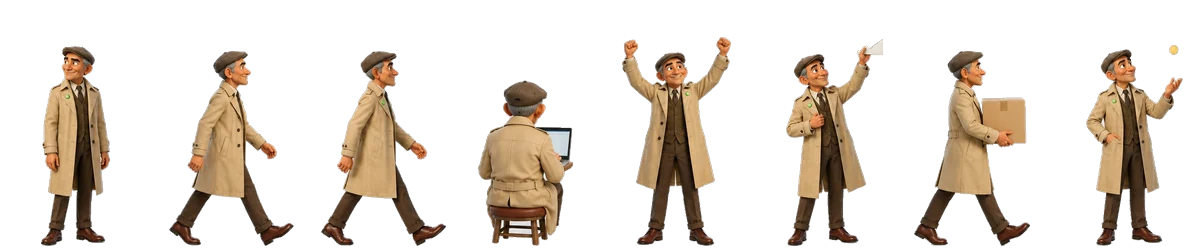
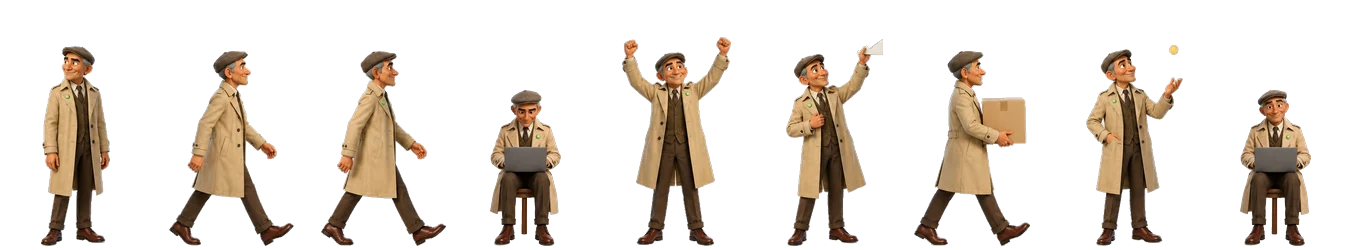
Workroom: everyone seated facing out at two tiered desks
The desk floor is redrawn as a raised back desk of eight and a front desk
of six, all facing the viewer, with each desk front lifted into its own
layer so the row behind it is hidden from the waist down. Each agent gets
two new seated frames (typing, looking up), people walk along behind their
desk and leave past its right end, and winners stay seated to receive
their pay.

diff --git a/web/src/Workroom.tsx b/web/src/Workroom.tsx
@@ -25,23 +25,32 @@ const name = (id?: string) => (id ? NAMES[id] ?? id.replace(/^outside:/, '') : '
 
 // The stage picture is 1115 x 1102; everything below is in its pixels.
 const W = 1115, H = 1102;
-const FLOOR = [430, 733, 1040]; // the line the feet walk on: hall, desks, street
+const FLOOR = [430, 740, 1040]; // the line the feet walk on: hall, desks, street
 const STAIR = 992;              // the stairwell on the right joins all three floors
 const SPEED = 250;              // walking speed, px per second, the same for every walk
 const STRIDE = 44;              // px walked per step
-const SEAT = 702;               // where a seated agent's sprite stands, behind the chair back
 const BOARD = 557;              // the middle of the auction board; people in the hall turn to it
 const COUNTER = { x: 440, y: 996, past: 652 }; // behind the counter, and the gap at its right end
 const HALL = [470, 640, 390, 720, 310, 800, 230, 880];
-// Nine chairs; the rest of the team works standing.
-const CHAIRS = [190, 267, 350, 430, 507, 585, 662, 772, 855];
-const SITS = ['scout', 'researcher', 'researcher-2', 'reader', 'writer', 'writer-2', 'analyst', 'illustrator', 'illustrator-2'];
-const STANDS: Record<string, { x: number; floor: number }> = {
-  auditor: { x: 70, floor: 1 }, 'auditor-2': { x: 124, floor: 1 }, messenger: { x: 922, floor: 1 },
-  producer: { x: 252, floor: 2 }, investigator: { x: 818, floor: 2 },
+// The whole team sits facing out behind two long desks, a raised back row of eight and a front row of six. Each
+// desk front is its own layer (design/scripts/desks.py), drawn over the row seated behind it. People walk along
+// behind their desk at `walk`, step out past its right end at `exit`, and a seated sprite stands at `sit` so the
+// laptop on its knees rests on the desk top.
+type Row = 'back' | 'front';
+const ROWS: Record<Row, { walk: number; sit: number; top: number; exit: number; z: number }> = {
+  back: { walk: 694, sit: 682, top: 630, exit: 932, z: 1 },
+  front: { walk: 722, sit: 710, top: 658, exit: 872, z: 3 },
 };
-// Frames in each strip (web/public/agents/poses/<name>.webp, made by design/scripts/poses.py), all facing right.
-const FRAMES = ['idle', 'walkA', 'walkB', 'type', 'cheer', 'bid', 'box', 'coin'] as const;
+const SEATS: Record<string, { row: Row; x: number }> = {
+  'researcher-2': { row: 'back', x: 286 }, reader: { row: 'back', x: 376 }, 'writer-2': { row: 'back', x: 457 },
+  'illustrator-2': { row: 'back', x: 539 }, producer: { row: 'back', x: 617 }, investigator: { row: 'back', x: 685 },
+  auditor: { row: 'back', x: 758 }, 'auditor-2': { row: 'back', x: 834 },
+  scout: { row: 'front', x: 246 }, researcher: { row: 'front', x: 343 }, writer: { row: 'front', x: 440 },
+  illustrator: { row: 'front', x: 547 }, analyst: { row: 'front', x: 643 }, messenger: { row: 'front', x: 745 },
+};
+// Frames in each strip (web/public/agents/poses/<name>.webp, made by design/scripts/poses.py), all facing right;
+// 'type' and 'look' are seated, facing out.
+const FRAMES = ['idle', 'walkA', 'walkB', 'type', 'cheer', 'bid', 'box', 'coin', 'look'] as const;
 type Pose = 'idle' | 'bid' | 'cheer' | 'box' | 'coin';
 const cq = (px: number) => `${(px / W) * 100}cqw`;
 
@@ -71,8 +80,8 @@ function beatsOf(o: Order, lots: LiveLot[], steps: Step[]): Beat[] {
   return out;
 }
 
-// 'desk' is an agent's own chair or standing spot; 'up' is standing in front of it.
-type Place = 'desk' | 'up' | 'street' | { hall: number };
+// 'desk' is an agent's own chair.
+type Place = 'desk' | 'street' | { hall: number };
 type Scene = {
   place: Record<string, Place>;
   pose: Record<string, Pose>;
@@ -161,7 +170,7 @@ function fold(beats: Beat[]): Scene {
       case 'accept':
         s.end = 'accepted';
         delete s.pose.messenger;
-        for (const a of Object.keys(s.won)) if (s.won[a] > 0 && a !== 'messenger') { s.place[a] = 'up'; s.pose[a] = 'coin'; }
+        for (const a of Object.keys(s.won)) if (s.won[a] > 0 && a !== 'messenger') { s.place[a] = 'desk'; s.pose[a] = 'coin'; }
         s.caption = 'Accepted. The bank pays each winner from escrow, straight to their NEAR account.';
         break;
       case 'reject':
@@ -181,20 +190,25 @@ function fold(beats: Beat[]): Scene {
 }
 
 type Pt = { x: number; y: number; floor: number };
-type Goal = Pt & { sit?: boolean };
+type Goal = Pt & { sit?: boolean; row?: Row };
+/** The desk row someone is walking or sitting behind, if any. */
+const rowAt = (p: Pt) => (p.floor === 1 ? (['back', 'front'] as Row[]).find((r) => Math.abs(p.y - ROWS[r].walk) < 1) : undefined);
 
 function goalOf(id: string, p: Place): Goal {
   if (p === 'street') return { x: COUNTER.x, y: COUNTER.y, floor: 2 };
   if (typeof p === 'object') return { x: HALL[p.hall], y: FLOOR[0], floor: 0 };
-  const c = SITS.indexOf(id);
-  if (c >= 0) return { x: CHAIRS[c], y: FLOOR[1], floor: 1, sit: p === 'desk' };
-  const st = STANDS[id] ?? { x: 60, floor: 1 };
-  return { x: st.x, y: FLOOR[st.floor], floor: st.floor };
+  const seat = SEATS[id] ?? { row: 'front', x: 860 };
+  return { x: seat.x, y: ROWS[seat.row].walk, floor: 1, sit: true, row: seat.row };
 }
 
-/** The way from one spot to another: along the floor to the stairwell, up or down it, along to the goal. */
-function route(from: Pt, to: Goal): Pt[] {
+/** The way from one spot to another: out from behind a desk, along the floor to the stairwell, up or down it,
+ * along to the goal and in behind its desk. */
+function route(at: Pt, to: Goal): Pt[] {
   const out: Pt[] = [];
+  const fromRow = rowAt(at);
+  if (fromRow && fromRow === to.row) return [to];
+  if (fromRow) out.push({ x: ROWS[fromRow].exit, y: at.y, floor: 1 }, { x: ROWS[fromRow].exit, y: FLOOR[1], floor: 1 });
+  const from = out[out.length - 1] ?? at;
   const behindCounter = (p: Pt) => p.floor === 2 && p.y < FLOOR[2] - 10;
   if (behindCounter(from) && !behindCounter(to)) out.push({ x: COUNTER.past, y: FLOOR[2], floor: 2 });
   if (from.floor !== to.floor) {
@@ -203,11 +217,12 @@ function route(from: Pt, to: Goal): Pt[] {
     for (let f = from.floor + d; ; f += d) { out.push({ x: STAIR, y: FLOOR[f], floor: f }); if (f === to.floor) break; }
   }
   if (behindCounter(to) && !behindCounter(from)) out.push({ x: COUNTER.past, y: FLOOR[2], floor: 2 });
+  if (to.row) out.push({ x: ROWS[to.row].exit, y: FLOOR[1], floor: 1 }, { x: ROWS[to.row].exit, y: to.y, floor: 1 });
   out.push(to);
   return out;
 }
 
-type Body = Pt & { id: string; path: Pt[]; goal: Goal; face: 1 | -1; walked: number; seated: boolean; moving: boolean; pose?: Pose; busy: boolean; el?: HTMLDivElement | null; spr?: HTMLDivElement | null };
+type Body = Pt & { id: string; path: Pt[]; goal: Goal; face: 1 | -1; walked: number; seated: boolean; moving: boolean; pose?: Pose; busy: boolean; el?: HTMLDivElement | null; spr?: HTMLDivElement | null; lab?: HTMLElement | null };
 
 /** Everyone's position, moved every frame at one walking speed; React only says where each one should be. */
 class Crowd {
@@ -223,7 +238,7 @@ class Crowd {
     for (const id of ROSTER) {
       const g = goalOf(id, 'desk');
       const old = this.bodies.get(id);
-      this.bodies.set(id, { ...g, id, path: [], goal: g, face: g.x > BOARD ? -1 : 1, walked: 0, seated: !!g.sit, moving: false, busy: false, el: old?.el, spr: old?.spr });
+      this.bodies.set(id, { ...g, id, path: [], goal: g, face: g.x > BOARD ? -1 : 1, walked: 0, seated: !!g.sit, moving: false, busy: false, el: old?.el, spr: old?.spr, lab: old?.lab });
     }
   }
 
@@ -290,39 +305,49 @@ class Crowd {
       frame = b.pose === 'box' ? 'box' : Math.floor(phase) % 2 ? 'walkB' : 'walkA';
       lift = Math.abs(Math.sin(phase * Math.PI)) * 3.2;
     } else if (b.seated) {
-      frame = 'type';
-      if (b.busy) lift = Math.sin(t / 55) > 0 ? 1.2 : 0;
+      // At work: head down typing, looking up now and then; while talking, mostly looking out.
+      // Someone being paid looks up at the coin.
+      const glance = b.pose === 'coin' || Math.sin(t / (b.busy ? 600 : 2300) + b.goal.x) > (b.busy ? -0.3 : 0.8);
+      frame = glance ? 'look' : 'type';
+      if (frame === 'type') lift = Math.sin(t / 55) > 0 ? 0.9 : 0;
     } else {
       frame = b.pose ?? 'idle';
       if (frame === 'cheer') lift = Math.abs(Math.sin(t / 160)) * 6;
       else lift = Math.sin(t / 700 + b.goal.x) * 0.6; // breathing
     }
-    const y = b.seated && !moving ? SEAT : b.y;
+    const row = rowAt(b);
+    const sitting = b.seated && !moving && !!row;
+    const y = sitting ? ROWS[row!].sit : b.y;
     const behind = b.floor === 2 && b.y < FLOOR[2] - 10;
     b.el.style.left = `${(b.x / W) * 100}%`;
     b.el.style.top = `${(y / H) * 100}%`;
-    b.el.style.zIndex = b.seated && !moving ? '1' : behind ? '3' : '5';
-    b.el.classList.toggle('sit', b.seated && !moving);
+    b.el.style.zIndex = row ? String(ROWS[row].z) : behind ? '3' : '5';
+    b.el.classList.toggle('sit', sitting);
+    if (b.lab) {
+      // the name sits on the desk front while someone is behind it, under the feet otherwise
+      b.lab.style.left = b.el.style.left;
+      b.lab.style.top = `${((row ? ROWS[row].top + 5 : b.y + 6) / H) * 100}%`;
+    }
     b.el.classList.toggle('hall', b.floor === 0 && b.y < FLOOR[0] + 5);
     b.el.classList.toggle('l', b.x < W * 0.2);
     b.el.classList.toggle('r', b.x > W * 0.78);
     b.spr.style.backgroundPositionX = `${(FRAMES.indexOf(frame) / (FRAMES.length - 1)) * 100}%`;
-    const flip = frame !== 'type' && frame !== 'cheer' && b.face < 0 ? -1 : 1;
+    const flip = frame !== 'type' && frame !== 'look' && frame !== 'cheer' && b.face < 0 ? -1 : 1;
     b.spr.style.transform = `translateY(${cq(-lift)}) scaleX(${flip})`;
   }
 }
 
 function Figure({ id, crowd, tag, glow, bubble }: { id: string; crowd: Crowd; tag?: string; glow: boolean; bubble?: Scene['bubble'] }) {
   const n = NAMES[id];
-  const hold = (el: HTMLDivElement | null, k: 'el' | 'spr') => { const b = crowd.bodies.get(id); if (b) b[k] = el; };
-  return (
+  const hold = (el: HTMLDivElement | null, k: 'el' | 'spr' | 'lab') => { const b = crowd.bodies.get(id); if (b) b[k] = el; };
+  return (<>
     <div className={`wr-fig${glow ? ' glow' : ''}`} ref={(el) => hold(el, 'el')}>
       {bubble && <div className={`wr-bub ${bubble.kind}`} key={bubble.key}><b>{n}</b> {bubble.text.length > 90 ? `${bubble.text.slice(0, 88)}…` : bubble.text}</div>}
       {!bubble && tag && tag !== 'sealed' && <span className={`wr-tag${tag.startsWith('won') || tag.startsWith('passed') ? ' won' : tag.startsWith('failed') ? ' bad' : ''}`}>{tag}</span>}
       <div className="wr-spr" ref={(el) => hold(el, 'spr')} style={{ backgroundImage: `url(/agents/poses/${n.toLowerCase()}.webp)` }} role="img" aria-label={n} />
-      <small>{n}</small>
     </div>
-  );
+    <small className="wr-name" ref={(el) => hold(el as HTMLDivElement | null, 'lab')}>{n}</small>
+  </>);
 }
 
 /** A payout flying from the counter to its winner, along an arc. */
@@ -402,13 +427,14 @@ export function Workroom({ o, lots, steps, live }: { o: Order; lots: LiveLot[]; 
         {scene.pills.length > 0 && (
           <div className="wr-pills">{scene.pills.slice(-3).map((p) => <span key={p.handle} className={p.entered ? '' : 'out'}>{p.handle} · {usd(p.price)}</span>)}</div>
         )}
-        <img className="wr-chairs" src="/stage-chairs.webp" alt="" />
+        <img className="wr-desk back" src="/stage-desk-back.webp" alt="" />
+        <img className="wr-desk front" src="/stage-desk-front.webp" alt="" />
         {ROSTER.map((id) => (
           <Figure key={id} id={id} crowd={crowd} tag={scene.tag[id]} glow={scene.glow.has(id)} bubble={scene.bubble?.who === id ? scene.bubble : undefined} />
         ))}
         <img className="wr-counter" src="/stage-counter.png" alt="" />
         {scene.place.messenger === 'street' && kitIn && !scene.end && <span className="wr-parcel">Your work, boxed</span>}
-        {coins.map(([id, pay], i) => <Coin key={`${run}-${id}`} to={goalOf(id, 'up')} pay={pay} delay={500 + i * 220} />)}
+        {coins.map(([id, pay], i) => <Coin key={`${run}-${id}`} to={goalOf(id, 'desk')} pay={pay} delay={500 + i * 220} />)}
       </div>
       <div className="wr-bar">
         <div className="wr-top">

diff --git a/web/src/styles.css b/web/src/styles.css
@@ -163,20 +163,21 @@ table.leads td b{font-size:15px}
 .wr-pills{position:absolute;left:6%;top:24%;display:flex;flex-direction:column;gap:.5cqw;z-index:3}
 .wr-pills span{background:var(--cyan-soft);color:var(--cyan-ink);border-radius:99px;padding:.35cqw 1cqw;font:600 max(9px,1.25cqw)/1.2 'Inter Tight',sans-serif;animation:pop .35s ease-out both}
 .wr-pills span.out{opacity:.55;text-decoration:line-through}
-.wr-chairs{position:absolute;left:13.453%;top:58.439%;width:66.906%;height:7.26%;z-index:2;pointer-events:none}
+.wr-desk{position:absolute;pointer-events:none}
+.wr-desk.back{left:18.117%;top:57.078%;width:63.318%;height:6.443%;z-index:2}
+.wr-desk.front{left:13.453%;top:59.619%;width:61.614%;height:7.804%;z-index:4}
 .wr-fig{position:absolute;width:0;height:0;display:flex;flex-direction:column;align-items:center;z-index:5}
-.wr-spr{position:absolute;bottom:0;width:8.4cqw;height:14cqw;background:no-repeat 0 0/800% 100%;transform-origin:50% 100%;filter:drop-shadow(0 .35cqw .35cqw rgba(0,0,0,.3));will-change:transform}
-.wr-fig.sit .wr-spr{clip-path:inset(0 0 13% 0);filter:none}
+.wr-spr{position:absolute;bottom:0;width:8.4cqw;height:14cqw;background:no-repeat 0 0/900% 100%;transform-origin:50% 100%;filter:drop-shadow(0 .35cqw .35cqw rgba(0,0,0,.3));will-change:transform}
+.wr-fig.sit .wr-spr{filter:none}
 .wr-fig.glow .wr-spr{filter:drop-shadow(0 0 .8cqw rgba(0,236,151,.85)) drop-shadow(0 .35cqw .35cqw rgba(0,0,0,.3))}
-.wr-fig small{position:absolute;top:.5cqw;font:600 max(8px,1.05cqw)/1 'Inter Tight',sans-serif;color:#fff;background:rgba(0,0,0,.55);padding:.2cqw .6cqw;border-radius:99px;white-space:nowrap;opacity:.85}
-.wr-fig.sit small{display:none}
+.wr-name{position:absolute;z-index:5;transform:translateX(-50%);pointer-events:none;font:600 max(8px,1.05cqw)/1 'Inter Tight',sans-serif;color:#fff;background:rgba(0,0,0,.55);padding:.2cqw .6cqw;border-radius:99px;white-space:nowrap;opacity:.85}
 .wr-tag{position:absolute;bottom:12.4cqw;white-space:nowrap;font:600 max(9px,1.2cqw)/1 'JetBrains Mono',monospace;background:#fff;color:var(--ink);padding:.35cqw .7cqw;border-radius:99px;animation:pop .3s ease-out both;box-shadow:var(--shadow)}
 .wr-tag.won{background:var(--green);color:#000}
 .wr-tag.bad{background:var(--red);color:#fff}
 .wr-bub{position:absolute;bottom:12.8cqw;width:max-content;max-width:26cqw;background:#fff;color:var(--ink);border-radius:1.2cqw;padding:.8cqw 1.1cqw;font:500 max(10px,1.35cqw)/1.3 'Inter Tight',sans-serif;box-shadow:var(--shadow);animation:pop .3s ease-out both;z-index:6}
 .wr-bub:after{content:"";position:absolute;left:50%;bottom:-.7cqw;border:.7cqw solid transparent;border-top-color:#fff;border-bottom:0;transform:translateX(-50%)}
 .wr-fig.l .wr-bub{left:-1cqw}.wr-fig.l .wr-bub:after{left:3cqw}.wr-fig.r .wr-bub{right:-1cqw}.wr-fig.r .wr-bub:after{left:auto;right:1.5cqw;transform:none}
-.wr-fig.sit .wr-tag{bottom:9.4cqw}.wr-fig.hall .wr-tag{display:none}.wr-fig.sit .wr-bub{bottom:9.8cqw}
+.wr-fig.sit .wr-tag{bottom:9.2cqw}.wr-fig.hall .wr-tag{display:none}.wr-fig.sit .wr-bub{bottom:9.6cqw}
 .wr-bub b{font-weight:700;margin-right:.2em}
 .wr-bub.pass{background:var(--mint)}.wr-bub.pass:after{border-top-color:var(--mint)}
 .wr-bub.fail,.wr-bub.error{background:#FBE3E1}.wr-bub.fail:after,.wr-bub.error:after{border-top-color:#FBE3E1}
@@ -194,7 +195,7 @@ table.leads td b{font-size:15px}
 .wr-bar .ghost{align-self:flex-start}
 .jobwr{margin-bottom:24px}
 #auction .wr{margin-top:34px}
-@container (max-width:560px){.wr-fig small,.wr-tag.won,.wr-board div:nth-of-type(n+3){display:none}.wr-tag{font-size:8px;padding:2px 4px}.wr-board{font-size:8px}}
+@container (max-width:560px){.wr-name,.wr-tag.won,.wr-board div:nth-of-type(n+3){display:none}.wr-tag{font-size:8px;padding:2px 4px}.wr-board{font-size:8px}}
 @media(max-width:980px){.wr{grid-template-columns:1fr}.wr-bar{padding:18px}.wr-bar .now{font-size:17px;min-height:0}.wr-log li:nth-child(n+3){display:none}.wr-bub{max-width:40cqw}}
 
 @media(max-width:980px){

diff --git a/design/scripts/poses.py b/design/scripts/poses.py
@@ -1,19 +1,22 @@
-# Cut each agent's pose sheet (design/sheets/<name>.webp, a 4x2 grid on flat grey) into one sprite strip for the
-# workroom: the background keyed out, every pose turned to face right, scaled alike, feet on the bottom edge.
+# Cut each agent's pose sheets into one sprite strip for the workroom: the background keyed out, every pose turned
+# to face right, scaled alike, feet on the bottom edge. design/sheets/<name>.webp is a 4x2 grid of standing poses
+# (its fourth pose, typing seen from behind, is no longer used); <name>-seat.webp has two poses seated facing out,
+# laptop on the knees: typing, and looking up.
 #   <python with numpy, scipy, pillow> design/scripts/poses.py [name ...]
-# Frame order in the strip: idle, walkA, walkB, type, cheer, bid, box, coin.
+# Frame order in the strip: idle, walkA, walkB, type, cheer, bid, box, coin, look.
 import glob, os, sys
 import numpy as np
 from PIL import Image
 from scipy import ndimage
 
 SRC, OUT = 'design/sheets', 'web/public/agents/poses'
-FRAMES = ['idle', 'walkA', 'walkB', 'type', 'cheer', 'bid', 'box', 'coin']
+FRAMES = ['idle', 'walkA', 'walkB', 'type', 'cheer', 'bid', 'box', 'coin', 'look']
 STAND = 200            # standing height in the strip, px
+SEATED = 156           # seated height (stool to hair), px
 CELL = (150, 250)      # one frame, px; feet sit 4 px above the bottom
 # Which way each pose faces on the sheet. The prompt asked for walks and the box facing right and the rest in a
 # three-quarter turn to the left, but a few sheets came out otherwise.
-FACE = {f: 'L' for f in ('idle', 'bid', 'coin')} | {f: 'R' for f in ('walkA', 'walkB', 'box')} | {'type': '-', 'cheer': '-'}
+FACE = {f: 'L' for f in ('idle', 'bid', 'coin')} | {f: 'R' for f in ('walkA', 'walkB', 'box')} | {'type': '-', 'cheer': '-', 'look': '-'}
 ODD = {
     'pip': {'walkA': 'L'},
     'bram': {'walkB': 'L'},
@@ -64,14 +67,14 @@ def cut(profile, parts, lo, hi):
     return [0] + out + [n]
 
 
-def frames_of(name):
-    a, fg = key(Image.open(f'{SRC}/{name}.webp'), POCKETS.get(name, 6), NEAR.get(name, 14))
-    rows = cut(fg.sum(axis=1), 2, 0, fg.shape[0])
+def frames_of(path, name, nrows, ncols):
+    a, fg = key(Image.open(path), POCKETS.get(name, 6), NEAR.get(name, 14))
+    rows = cut(fg.sum(axis=1), nrows, 0, fg.shape[0])
     found = []
-    for r in range(2):
+    for r in range(nrows):
         y0, y1 = rows[r], rows[r + 1]
-        cols = cut(fg[y0:y1].sum(axis=0), 4, 0, fg.shape[1])
-        for c in range(4):
+        cols = cut(fg[y0:y1].sum(axis=0), ncols, 0, fg.shape[1])
+        for c in range(ncols):
             x0, x1 = cols[c], cols[c + 1]
             m = fg[y0:y1, x0:x1]
             ys, xs = np.nonzero(m)
@@ -90,11 +93,13 @@ def anchor_x(alpha):
 
 
 def build(name):
-    fr = frames_of(name)
+    stand = frames_of(f'{SRC}/{name}.webp', name, 2, 4)
+    seat = frames_of(f'{SRC}/{name}-seat.webp', name, 1, 2)
+    fr = stand[:3] + [seat[0]] + stand[4:] + [seat[1]]
     face = FACE | ODD.get(name, {})
-    scale = STAND / fr[0].shape[0]
     strip = Image.new('RGBA', (CELL[0] * len(FRAMES), CELL[1]), (0, 0, 0, 0))
     for i, (f, px) in enumerate(zip(FRAMES, fr)):
+        scale = (SEATED / seat[0].shape[0]) if f in ('type', 'look') else (STAND / stand[0].shape[0])
         im = Image.fromarray(px)
         if face[f] == 'L':
             im = im.transpose(Image.FLIP_LEFT_RIGHT)
@@ -112,6 +117,6 @@ def build(name):
     print(name, os.path.getsize(f'{OUT}/{name}.webp') // 1024, 'KB', [p.shape[:2] for p in fr])
 
 
-names = sys.argv[1:] or sorted(os.path.basename(f)[:-5] for f in glob.glob(f'{SRC}/*.webp'))
+names = sys.argv[1:] or sorted(os.path.basename(f)[:-5] for f in glob.glob(f'{SRC}/*.webp') if not f.endswith('-seat.webp'))
 for n in names:
     build(n)

diff --git a/design/scripts/desks.py b/design/scripts/desks.py
@@ -1,0 +1,15 @@
+# The desk floor of web/public/stage.jpg is design/scene/desk-floor.webp (an inpaint of the old floor, resized to
+# 1115 x 1102) pasted into the rectangle (40, 476)-(942, 740) with a 3 px feather. Agents sit behind two long desks
+# facing out, so this lifts each desk front out of the stage as its own layer, drawn over the row seated behind it:
+# web/public/stage-desk-back.webp and stage-desk-front.webp, placed over the stage at BACK and FRONT.
+#   <python with numpy, scipy, pillow> design/scripts/desks.py
+from PIL import Image
+
+BACK = (202, 629, 908, 700)   # the raised back desk, x0, y0, x1, y1 in stage px
+FRONT = (150, 657, 837, 743)  # the front desk with its glow strip
+
+im = Image.open('web/public/stage.jpg').convert('RGB')
+for name, box in (('back', BACK), ('front', FRONT)):
+    im.crop(box).save(f'web/public/stage-desk-{name}.webp', quality=90, method=6)
+    x0, y0, x1, y1 = box
+    print(f'.wr-desk.{name}{{left:{x0 / 11.15:.3f}%;top:{y0 / 11.02:.3f}%;width:{(x1 - x0) / 11.15:.3f}%;height:{(y1 - y0) / 11.02:.3f}%}}')
